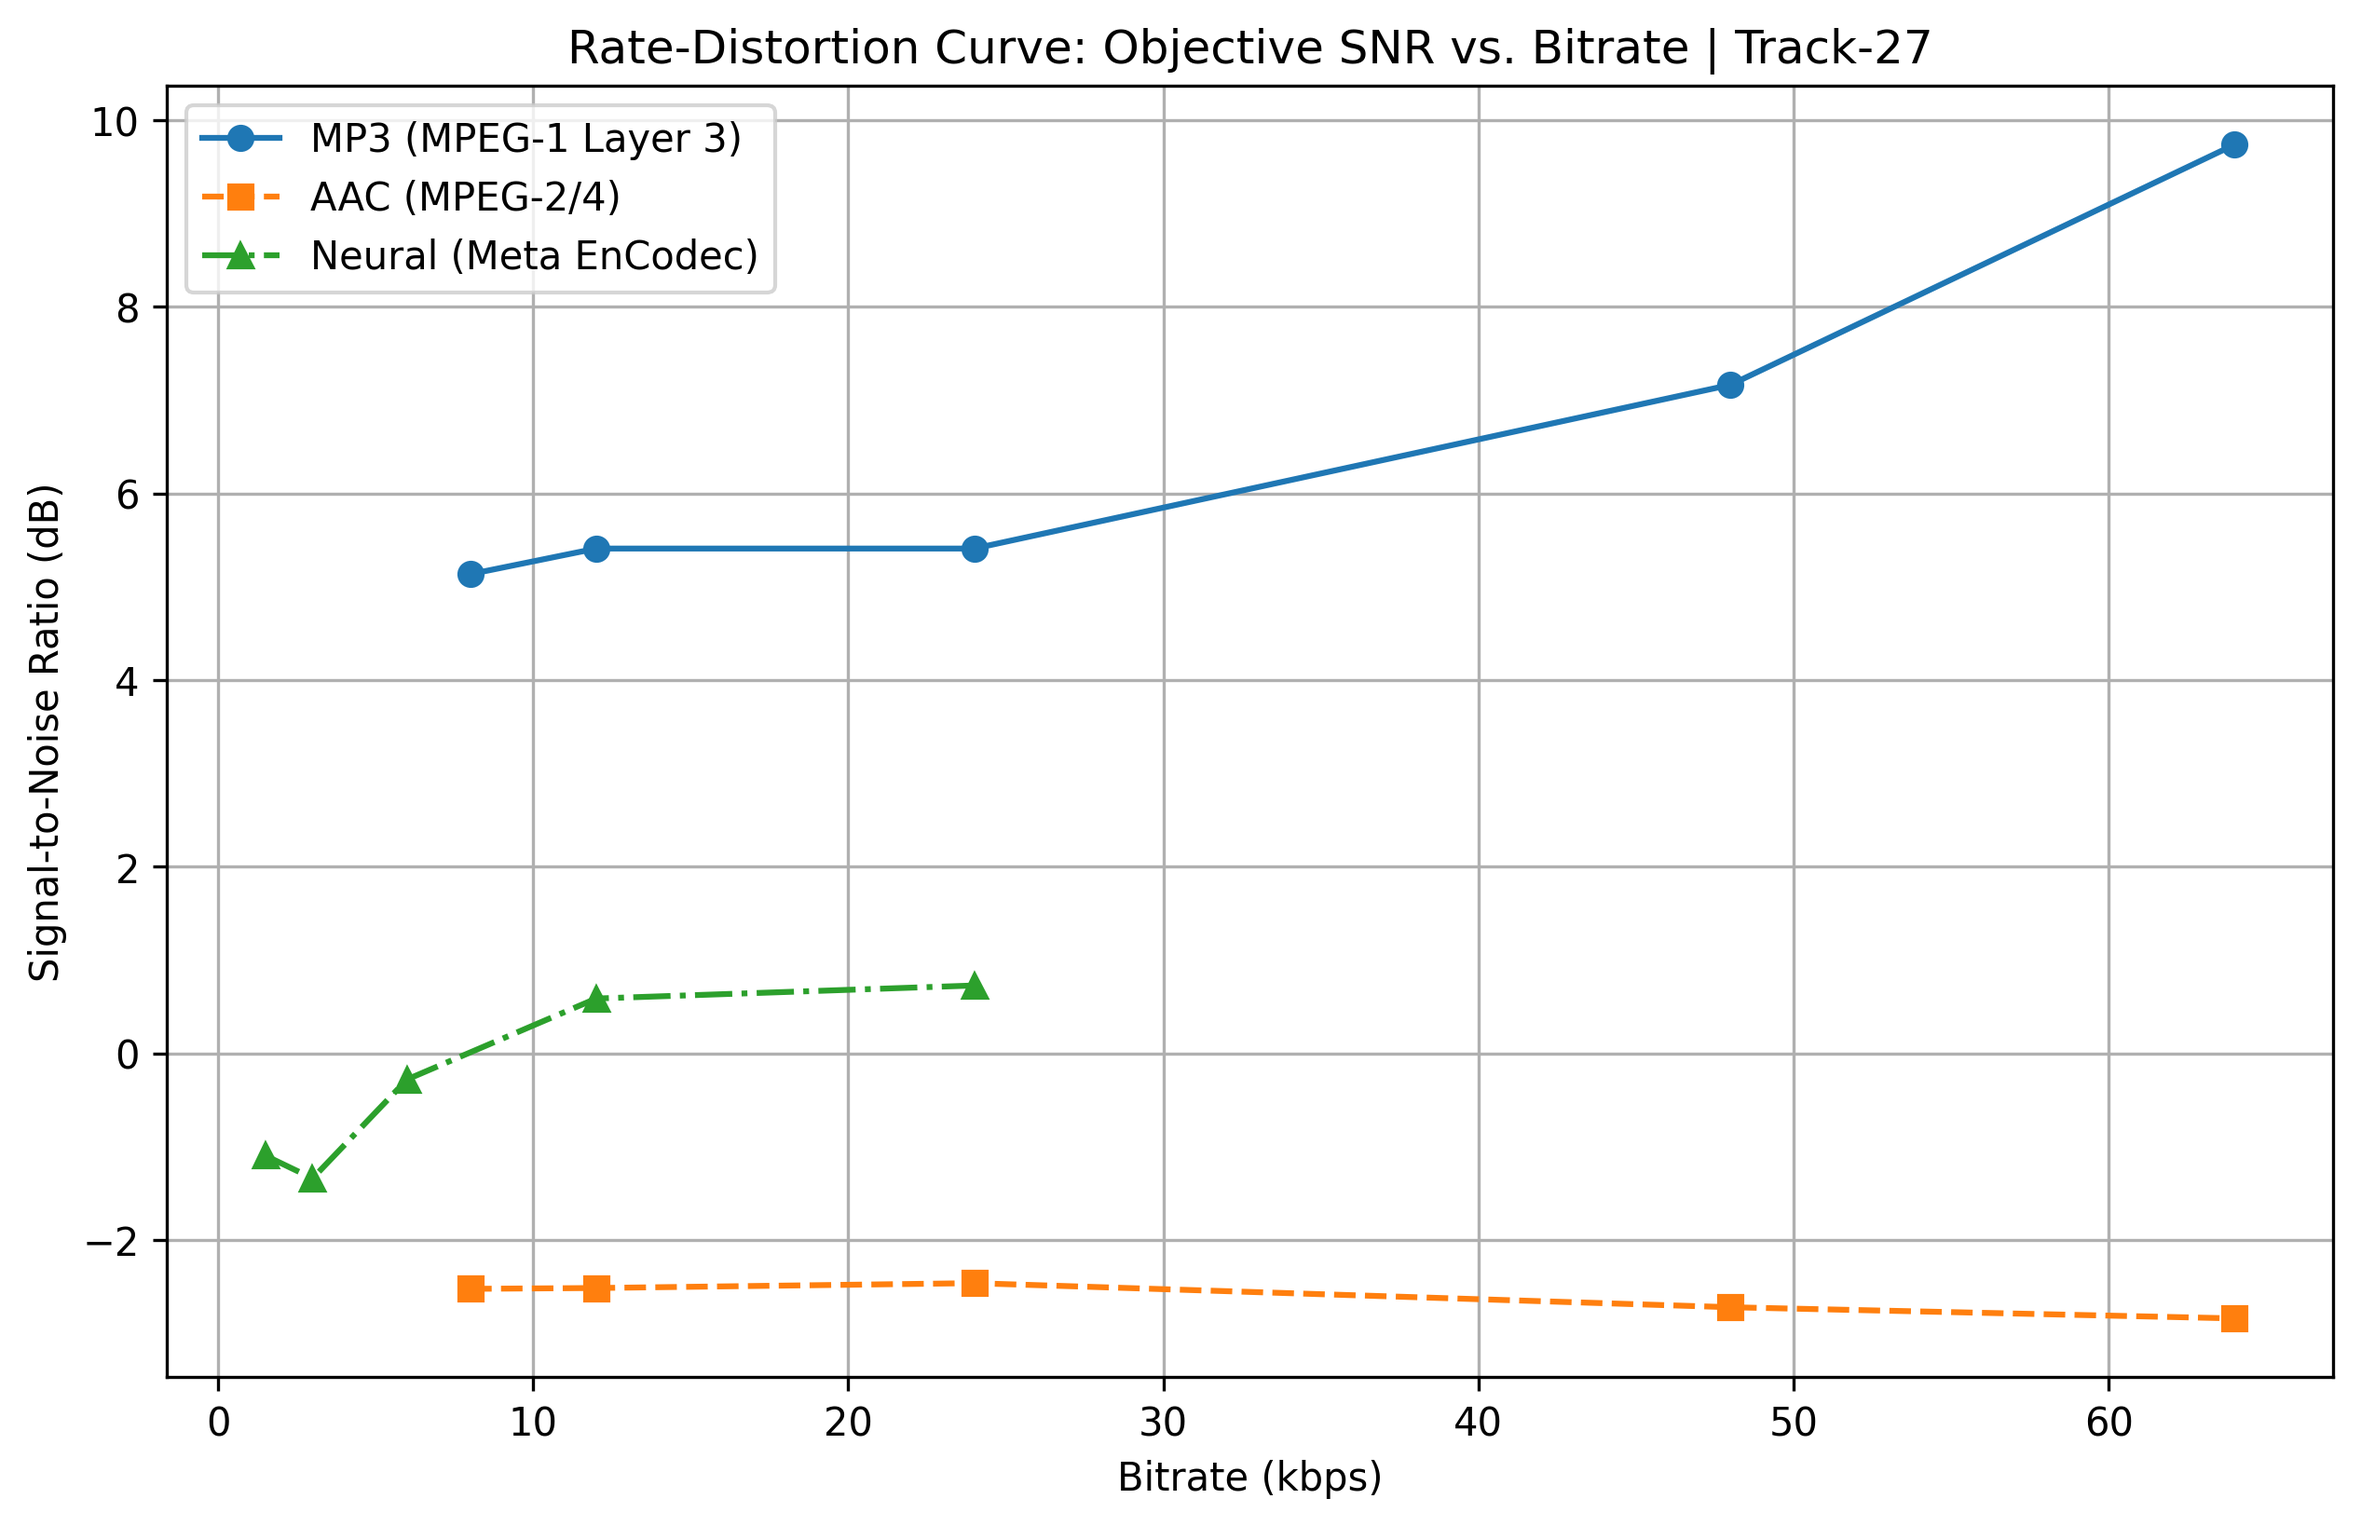
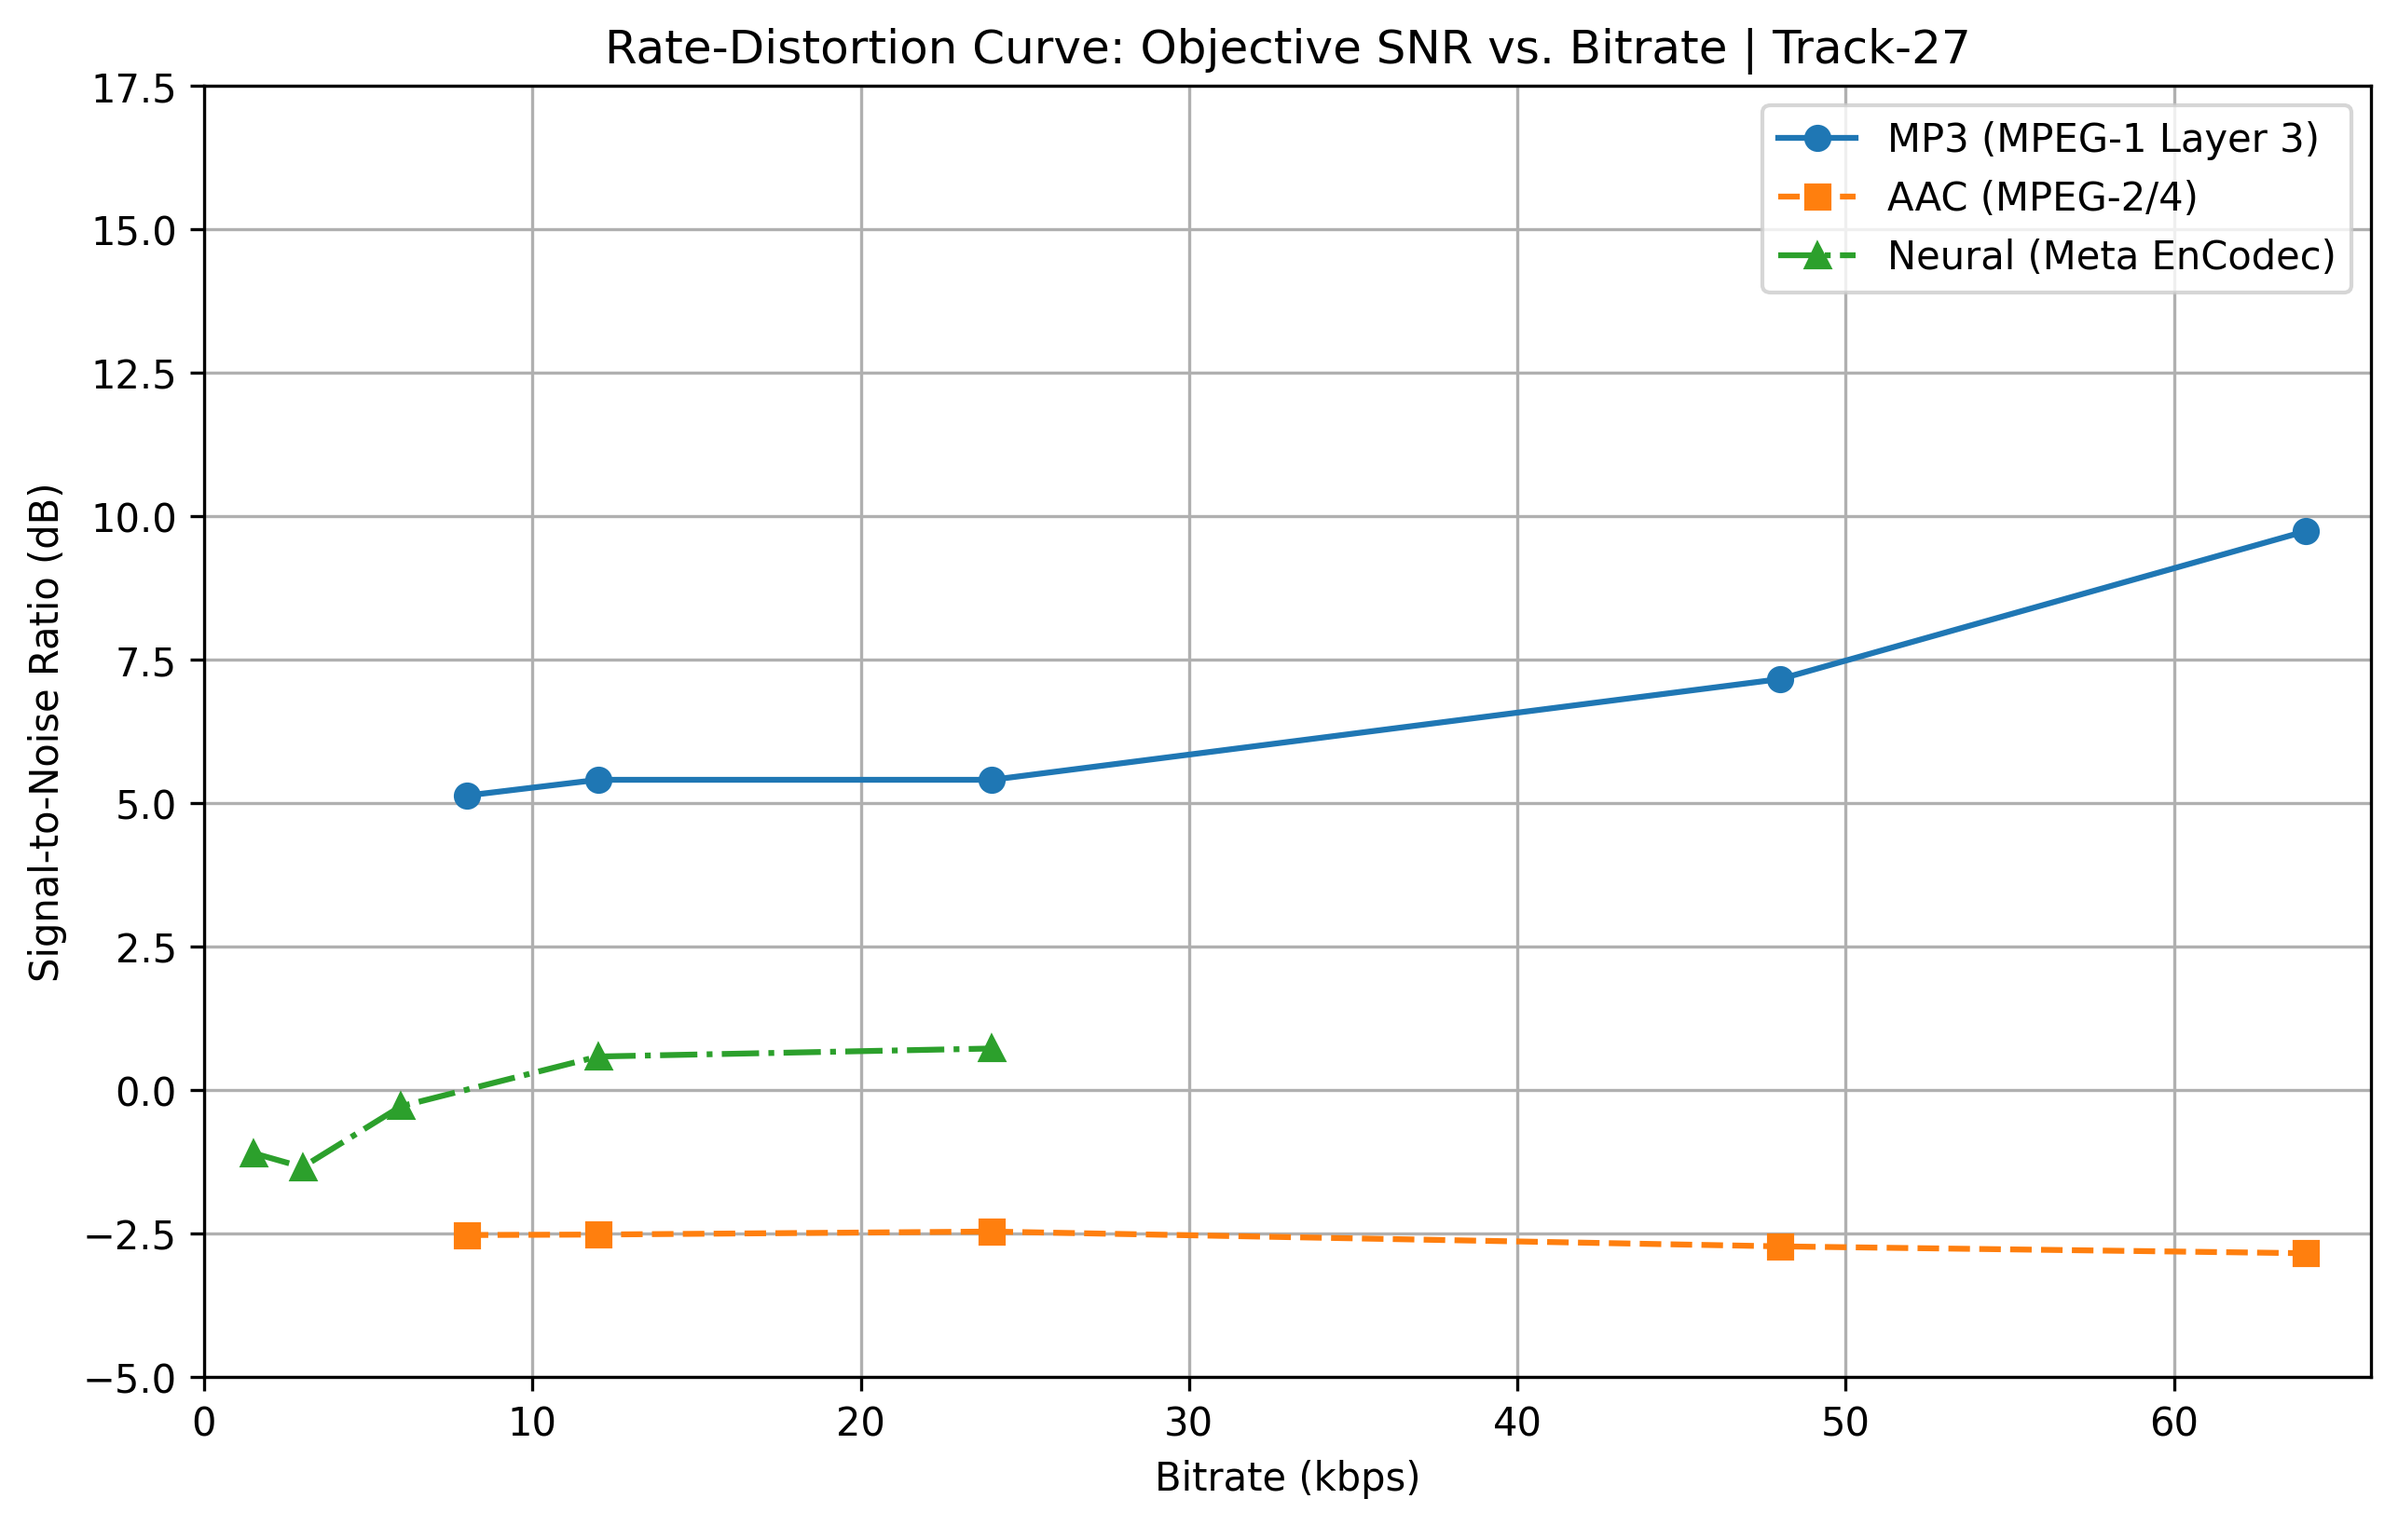
updated xlim ylim

diff --git a/scripts/objective-evaluation.py b/scripts/objective-evaluation.py
@@ -139,7 +139,8 @@ def plot_rd_curve(original_wav):
     plt.ylabel("Signal-to-Noise Ratio (dB)")
     plt.grid(True)
     plt.legend()
-
+    plt.xlim(0, 66)
+    plt.ylim(-5, 17.5)
     plt.savefig(f"rd_curve_track_{track_id}.png", dpi=300, bbox_inches="tight")
     # plt.show()
 
